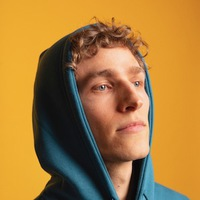
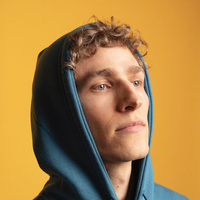
Support jpg and webp thumbnails how bout that

diff --git a/_includes/post-summary.html b/_includes/post-summary.html
@@ -1,7 +1,15 @@
 <div class="article" data-aos="fade-up" data-aos-easing="ease-out-quad" data-aos-duration="800">
   {% if post.image %}
   <div class="article__image-box">
-    <a href="{{post.url | prepend: site.baseurl}}" class="article__image" style="background-image: url({{ site.baseurl }}{{ post.image | replace: '/img', '/img/thumbs' }})"></a>
+    {%- assign thumbnail-jpg = post.image | replace: '/img', '/img/thumbs' %}
+    {%- assign thumbnail-webp = thumbnail-jpg | replace: '.jpg', '.webp' %}
+    <a href="{{post.url | prepend: site.baseurl}}" class="article__image">
+      <picture>
+        <source srcset="{{ site.baseurl }}{{ thumbnail-webp }}" type="image/webp">
+        <source srcset="{{ site.baseurl }}{{ thumbnail-jpg }}" type="image/jpeg"> 
+        <img src="{{ site.baseurl }}{{ thumbnail-jpg }}" loading="lazy" />
+      </picture>
+    </a>
   </div>
   {% endif %}
   <div class="article__content">

diff --git a/_sass/4-layouts/_article.scss b/_sass/4-layouts/_article.scss
@@ -12,7 +12,6 @@
 }
 
 .article__image-box {
-  display: table;
   margin-right: 30px;
   @media (max-width: $mobile) {
     margin-right: 20px;
@@ -23,11 +22,12 @@
   display: block;
   width: 100px;
   height: 100px;
-  border-radius: $border-radius;
-  background-position: center;
-  background-size: cover;
-  background-repeat: no-repeat;
-  background-color: $gray-white;
+  img {
+    object-fit: cover;
+    border-radius: $border-radius;
+    width: 100%;
+    height: 100%;
+  }
   @media (max-width: $mobile) {
     width: 70px;
     height: 70px;
